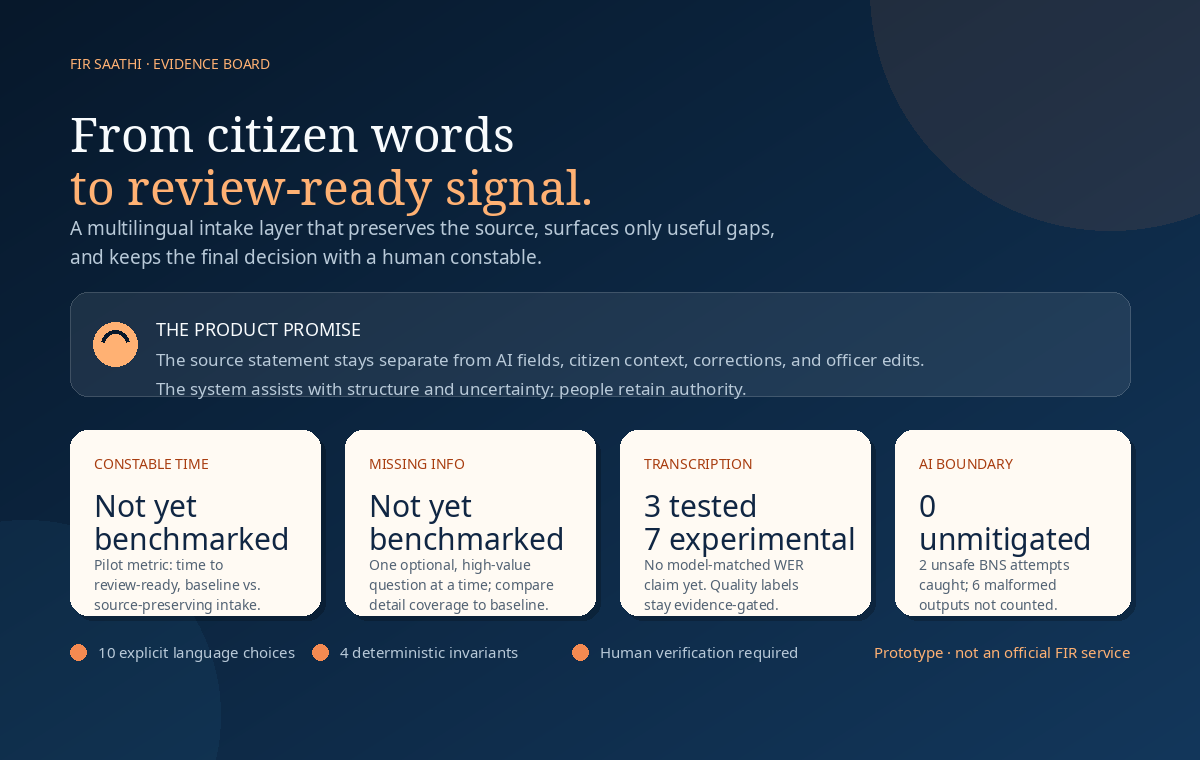
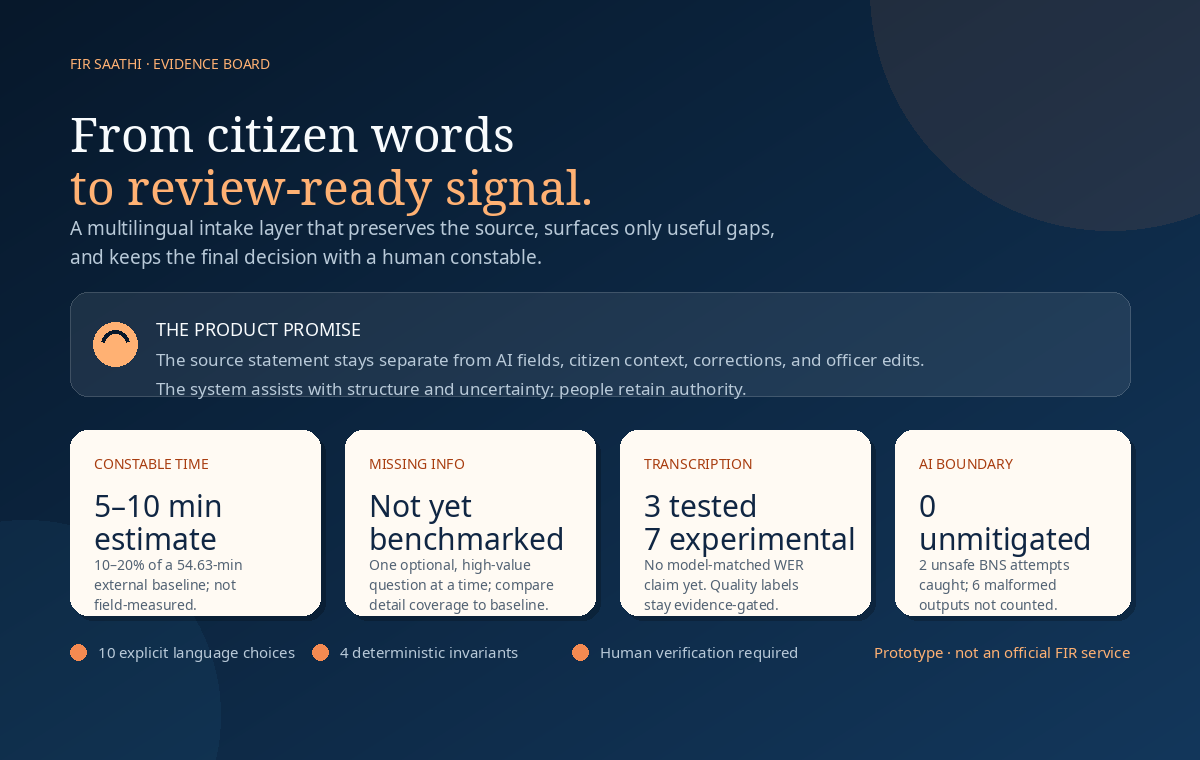
Add cited constable time estimate

Changed region(s): [[0.0617, 0.6355, 0.2467, 0.8171]]

diff --git a/scripts/render_evidence_board.py b/scripts/render_evidence_board.py
@@ -58,7 +58,7 @@ draw.text((156, 347), "The source statement stays separate from AI fields, citiz
 draw.text((156, 376), "The system assists with structure and uncertainty; people retain authority.", font=font(sans, 17), fill=muted)
 
 cards = [
-    (70, "CONSTABLE TIME", ["Not yet", "benchmarked"], ["Pilot metric: time to", "review-ready, baseline vs.", "source-preserving intake."]),
+    (70, "CONSTABLE TIME", ["5–10 min", "estimate"], ["10–20% of a 54.63-min", "external baseline; not", "field-measured."]),
     (345, "MISSING INFO", ["Not yet", "benchmarked"], ["One optional, high-value", "question at a time; compare", "detail coverage to baseline."]),
     (620, "TRANSCRIPTION", ["3 tested", "7 experimental"], ["No model-matched WER", "claim yet. Quality labels", "stay evidence-gated."]),
     (895, "AI BOUNDARY", ["0", "unmitigated"], ["2 unsafe BNS attempts", "caught; 6 malformed", "outputs not counted."]),

diff --git a/README.md b/README.md
@@ -47,12 +47,12 @@ Here are the four questions a serious evaluator should ask. The numbers below di
 
 | Question | What we can defend today | Status |
 |---|---|---|
-| **How much time does FIR Saathi save a constable?** | The system is designed to reduce repeated intake-and-structuring work, but no valid baseline-vs-FIR-Saathi time study has been run yet. The correct endpoint is time from source-record arrival to review-ready human action. | **Pilot measurement pending** |
+| **How much time does FIR Saathi save a constable?** | **Estimated planning range: 5–10 minutes per eligible intake**, not a measured result. This models recovering 10–20% of a 54.63-minute police report-writing baseline from an independent study; FIR Saathi addresses intake structuring and clarification, not the officer’s entire report. The same study found no significant speed effect from AI report-writing alone, so a local pilot is still required.[6] | **Cited estimate; pilot validation pending** |
 | **How much does source-preserving intake reduce missing information?** | The product checks fixed high-value categories and asks one optional follow-up at a time, without merging answers into the source. The reduction in missing-detail rate has not yet been measured against a baseline. | **Pilot measurement pending** |
 | **How well does transcription work by language?** | English, Hindi, and Gujarati have been personally tested qualitatively. Marathi, Bengali, Tamil, Telugu, Kannada, Malayalam, and Punjabi are available but marked **Experimental**. No model-matched WER claim is published. | **Language evidence in progress** |
 | **How often does AI attempt unsupported information, and how often is it caught?** | In the recorded ten-fixture hostile run, 4 responses were parseable; 2 of those attempted unsafe non-`REVIEW` BNS output, and the deterministic normaliser mitigated both. That leaves **0 unmitigated evaluated responses**. Six malformed responses are not counted as blocked. | **Observed snapshot, not a benchmark** |
 
-> **Why show “not yet benchmarked”?** Because a made-up time-saved number or language WER would be less useful than an honest measurement plan. FIR Saathi is ready to be evaluated; it is not claiming that a prototype snapshot is a field study.
+> **Why label this as an estimate?** Because the 5–10 minute range is a cited planning hypothesis, not a made-up “impact statistic.” The independent study that supplies the external baseline found no significant speed effect from AI report-writing alone. FIR Saathi is ready to be evaluated; it is not claiming that a prototype snapshot is a field study.
 
 ## What is already working
 
@@ -71,11 +71,19 @@ FIR Saathi is not just a landing-page concept. The repository contains a complet
 
 ## Evidence, not marketing theatre
 
-### 1. Constable time saved: the measurement we still need
+### 1. Constable time saved: a cited planning estimate, not a field result
 
-The workflow is deliberately shaped around a plausible time-saving mechanism: the citizen’s source stays intact, the system surfaces exact excerpts instead of producing a polished invented narrative, and only high-value missing details are offered as optional follow-ups. That should reduce the reviewer’s need to re-read, re-structure, and re-ask basic questions—but the repository does not contain a defensible time-saved benchmark yet.
+The workflow is deliberately shaped around a plausible time-saving mechanism: the citizen’s source stays intact, the system surfaces exact excerpts instead of producing a polished invented narrative, and only high-value missing details are offered as optional follow-ups. That may reduce the reviewer’s need to re-read, re-structure, and re-ask basic questions. The README now uses a transparent **5–10 minute per eligible intake planning estimate**, calculated as follows:
 
-A credible pilot would use matched synthetic scenarios and the same reviewers in two conditions: a baseline intake and FIR Saathi. It should report median and percentile time to review-ready action, the number of clarification loops, and source-fidelity errors. Until that is run, the README intentionally says **measurement pending**, not “saves X minutes.”
+| Calculation step | Value | Interpretation |
+|---|---:|---|
+| External report-writing baseline | 54.63 minutes | Historical mean reported for one police department in an independent study of police report duration [6] |
+| FIR Saathi planning assumption | 10–20% of baseline | A deliberately bounded scenario for the narrower intake-structuring and clarification work FIR Saathi targets; this percentage is an internal hypothesis, not a published FIR Saathi result |
+| Estimated potential time recovered | 5.46–10.93 minutes | Rounded and presented as **5–10 minutes per eligible intake** |
+
+This estimate must not be read as “FIR Saathi saves ten minutes.” The cited randomized trial found that a commercial AI report-writing tool did **not** significantly reduce report-writing duration, so external evidence does not validate our estimate. The 5–10 minute range is a hypothesis for a controlled local pilot, not a field measurement, causal claim, or guarantee. The U.S. DOJ COPS Office also describes AI-assisted report workflows as requiring officer review, missing-detail completion, manual editing, and sign-off.[7]
+
+A credible pilot would use matched synthetic scenarios and the same reviewers in two conditions: a baseline intake and FIR Saathi. It should report median and percentile time from source-record arrival to review-ready human action, the number of clarification loops, and source-fidelity errors. The pilot should be able to disprove the estimate as easily as confirm it.
 
 ### 2. Missing information: measure coverage without corrupting the source
 
@@ -203,3 +211,5 @@ FIR Saathi is designed for demonstration, evaluation, and controlled self-hostin
 [3]: server/adversarialEval.test.ts "Deterministic adversarial evaluation invariants"
 [4]: https://supabase.com/docs/guides/database/secure-data "Supabase: Securing your data"
 [5]: docs/RASPBERRY_PI_5_HOSTING.md "FIR Saathi Raspberry Pi 5 hosting guide"
+[6]: https://www.crimrxiv.com/pub/nxbmzp2j/release/1 "Adams et al., No Man’s Hand: Artificial Intelligence Does Not Improve Police Report Writing Speed"
+[7]: https://cops.usdoj.gov/html/dispatch/01-2025/ai_reports.html "U.S. DOJ COPS Office, Using AI to Write Police Reports"

diff --git a/docs/research/constable_time_estimate_sources.md b/docs/research/constable_time_estimate_sources.md
@@ -1,0 +1,17 @@
+# Constable time estimate sources
+
+## Independent report-writing study
+
+Ian T. Adams, Matt Barter, Kyle McLean, Hunter Boehme, and Irick A. Geary, *No Man’s Hand: Artificial Intelligence Does Not Improve Police Report Writing Speed*, CrimRxiv, published 2024-09-11, DOI 10.21428/cb6ab371.4a6d42e9: https://www.crimrxiv.com/pub/nxbmzp2j/release/1
+
+The pre-registered randomized controlled trial involved 85 police officers and 755 reports. The paper reports a historical mean report-writing time of 54.63 minutes (SD 47.18) and describes a 10-minute reduction as a conservative effect size for its power analysis. Its actual result was null: AI assistance did not significantly affect report-writing duration, including a full-year difference-in-differences analysis over 6,084 reports. It concludes that no time savings in report-writing should be assumed from AI-assisted report writing alone.
+
+README use: present a 5–10 minute per eligible intake planning estimate only, not as a measured FIR Saathi result. The calculation is a transparent scenario assumption of 10–20% of the 54.63-minute baseline (5.46–10.93 minutes, rounded to 5–10), because FIR Saathi addresses intake structuring and clarification rather than replacing an officer’s full report. The study’s null result is a reason to label the estimate as unvalidated and to require a local pilot.
+
+## U.S. DOJ COPS Office context
+
+U.S. Department of Justice COPS Office, *Using AI to Write Police Reports*, January 2025: https://cops.usdoj.gov/html/dispatch/01-2025/ai_reports.html
+
+The article describes agencies using audio transcription and AI-generated first drafts, but says officers still review the draft, fill in missing details, manually edit, and sign off. It also reports concerns around non-English speakers and notes that the systems are used cautiously in some agencies. The article contains agency/user testimonials about time savings, not an independent causal estimate.
+
+README use: cite this source for the need for human review and the distinction between an AI-assisted draft and a completed official report; do not use its testimonials as a numerical FIR Saathi impact claim.
